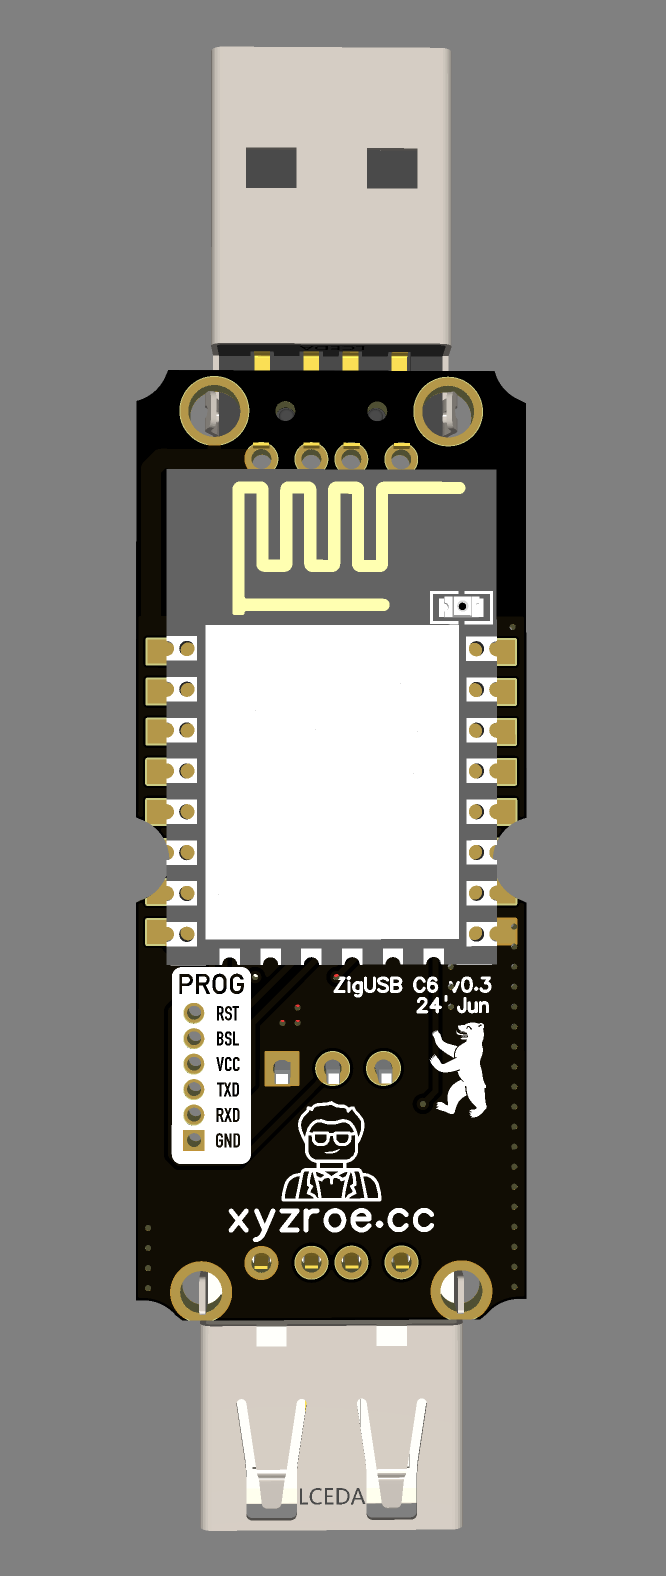
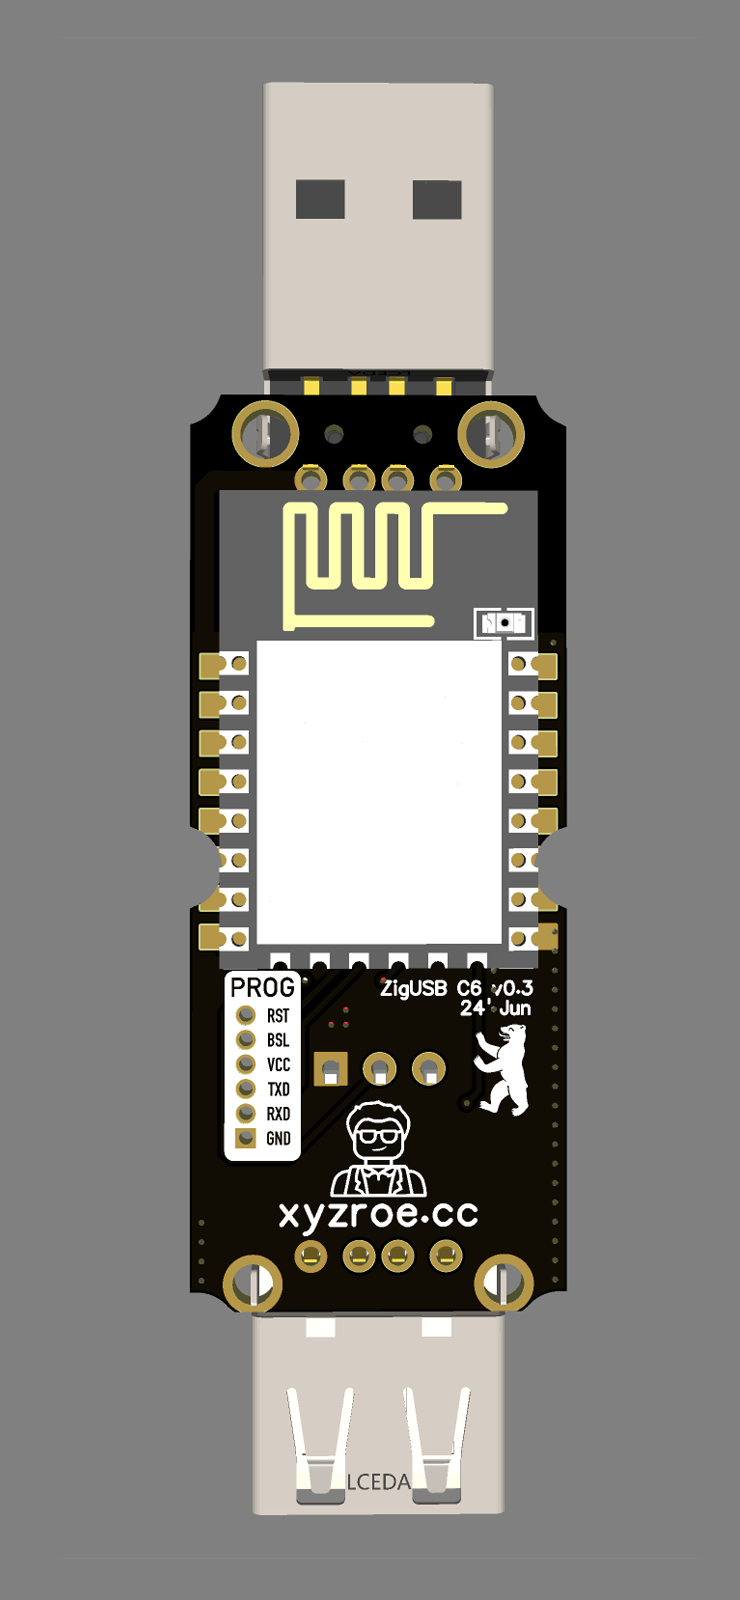
Fix images layout

Changed region(s): [[0.1802, 0.0311, 0.8108, 0.9949], [0.5405, 0.0933, 0.6306, 0.1555]]

diff --git a/index.md b/index.md
@@ -35,8 +35,8 @@ Stay tuned for updates as we continue to expand the capabilities of ZigUSB C6, a
 ### Overview  
   
 <div align="center">
-<img width="40%" src="https://raw.githubusercontent.com/xyzroe/ZigUSB_С6/main/images/top.png">
-<img width="40%" src="https://raw.githubusercontent.com/xyzroe/ZigUSB_С6/main/images/bottom.png">
+<img width="40%" src="https://raw.githubusercontent.com/xyzroe/ZigUSB_C6/refs/heads/main/images/top.png">
+<img width="40%" src="https://raw.githubusercontent.com/xyzroe/ZigUSB_C6/refs/heads/main/images/bottom.png">
 </div>
 
 ### Photos
@@ -44,30 +44,29 @@ Stay tuned for updates as we continue to expand the capabilities of ZigUSB C6, a
 <table>
 <tr>
 <td width="50%">
-<img src="https://raw.githubusercontent.com/xyzroe/ZigUSB_С6/main/images/top_case.jpeg">
+<img src="https://raw.githubusercontent.com/xyzroe/ZigUSB_C6/refs/heads/main/images/top_case.jpeg">
 </td>
 <td>
-<img src="https://raw.githubusercontent.com/xyzroe/ZigUSB_С6/main/images/back_case.jpeg">
+<img src="https://raw.githubusercontent.com/xyzroe/ZigUSB_C6/refs/heads/main/images/back_case.jpeg">
 </td>
 </tr>
 </table>
 
 ### Schematic
-<div align="center"><img width="90%" src="https://raw.githubusercontent.com/xyzroe/ZigUSB_С6/main/hardware/Schematic.png"></div>
+<div align="center"><img width="90%" src="https://raw.githubusercontent.com/xyzroe/ZigUSB_C6/main/hardware/Schematic.png"></div>
   
-#### zigbee2mqtt & Home Assistant overview
+#### zigbee2mqtt overview
 
-<table>
-<tbody>
-<tr>
-<td><img width="15%" src="https://raw.githubusercontent.com/xyzroe/ZigUSB_С6/main/images/dash.png"></td>
-<td><img width="35%" src="https://raw.githubusercontent.com/xyzroe/ZigUSB_С6/main/images/exposes.png"></td>
-<td><img width="45%" src="https://raw.githubusercontent.com/xyzroe/ZigUSB_С6/main/images/ha.png"></td>
-</tr>
-</tbody>
-</table>
+<div align="center">
+<img width="35%" src="https://raw.githubusercontent.com/xyzroe/ZigUSB_C6/refs/heads/main/images/dash.png">
+<img width="55%" src="https://raw.githubusercontent.com/xyzroe/ZigUSB_C6/refs/heads/main/images/exposes.png">
+</div>
 
+#### Home Assistant overview
 
+<div align="center">
+<img width="60%" src="https://raw.githubusercontent.com/xyzroe/ZigUSB_C6/refs/heads/main/images/ha.png">
+</div>
 
 #### OTA
 
@@ -108,10 +107,10 @@ This work is licensed under a <a rel="license" href="http://creativecommons.org/
 
 
 ### Firmware Files
-All source files are available in this repository. Pre-built firmware files can be found in the [releases section](https://github.com/xyzroe/ZigUSB_С6/releases).
+All source files are available in this repository. Pre-built firmware files can be found in the [releases section](https://github.com/xyzroe/ZigUSB_C6/releases).
 
 ### Verified Supported Zigbee Systems
-- [zigbee2mqtt](https://www.zigbee2mqtt.io/) - Full support, still requires [external converter](https://github.com/xyzroe/ZigUSB_С6/tree/main/external_converter/ZigUSB_С6.js) ⭐⭐⭐⭐⭐
+- [zigbee2mqtt](https://www.zigbee2mqtt.io/) - Full support, still requires [external converter](https://github.com/xyzroe/ZigUSB_C6/tree/main/external_converter/ZigUSB_C6.js) ⭐⭐⭐⭐⭐
 - [HOMEd](https://wiki.homed.dev/page/HOMEd) - Partial support ⭐⭐⭐⭐
 - [ZHA](https://www.home-assistant.io/integrations/zha/) - Partial support ⭐⭐⭐⭐
 
@@ -130,4 +129,4 @@ All source files are available in this repository. Pre-built firmware files can 
 - [How-to](./CONTRIBUTE.md) 
 
 <br>  
-ZigUSB_С6 is licensed under the <a rel="license" href="http://creativecommons.org/licenses/by-nc-sa/4.0/">Creative Commons Attribution-NonCommercial-ShareAlike 4.0 International License</a>
+ZigUSB_C6 is licensed under the <a rel="license" href="http://creativecommons.org/licenses/by-nc-sa/4.0/">Creative Commons Attribution-NonCommercial-ShareAlike 4.0 International License</a>
